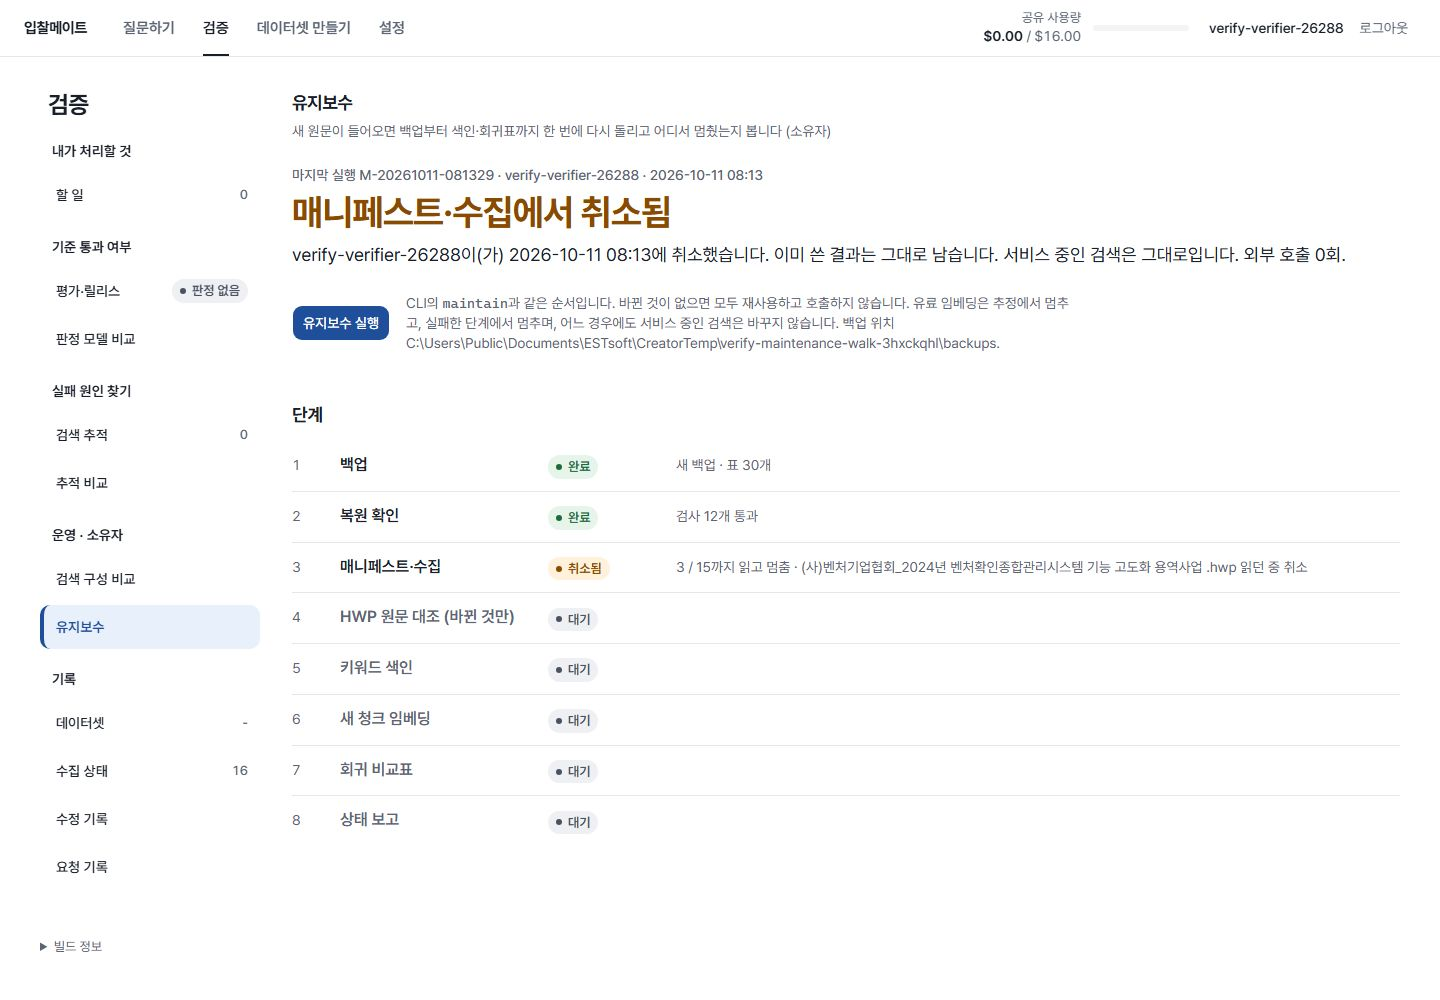
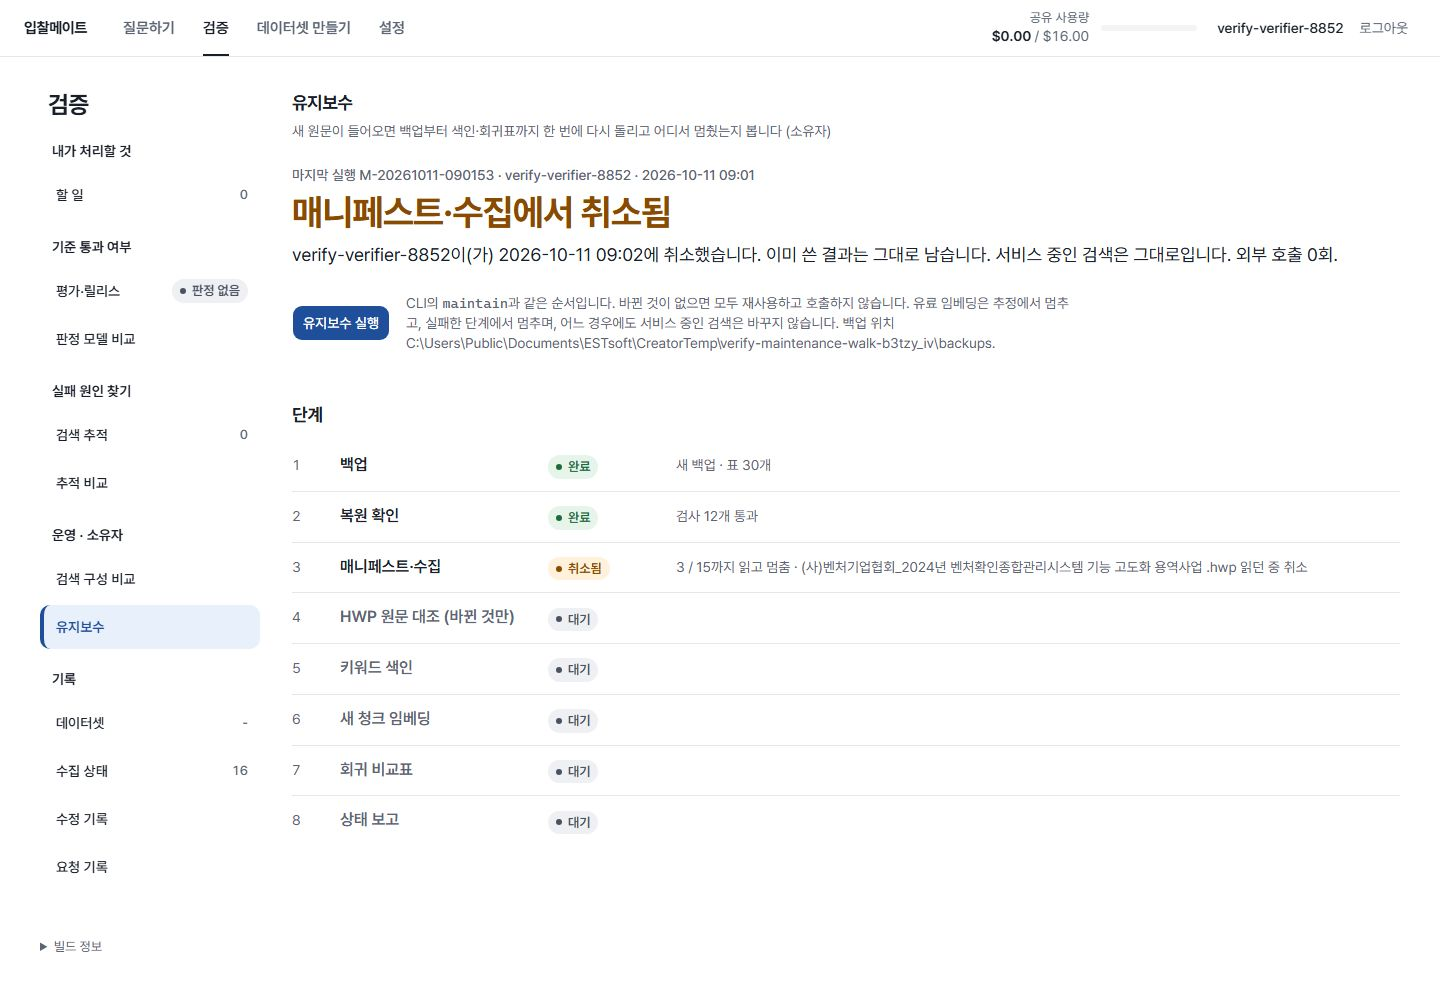
Maintenance walk: rerun at edbb38e with focused check receipts
Review round 1, F3: the browser walk and the maintenance, API, ingestion and
frontend checks are rerun at the fix commit on a clean tree, and the walk now
records its commit and that no converter outlived a timed-out parse.

diff --git a/docs/history/maintenance-timeout-cancel/README.md b/docs/history/maintenance-timeout-cancel/README.md
@@ -38,7 +38,8 @@ re-parses them with pyhwp. Identical output reuses the earlier extraction ids. T
 
 ## Browser walk
 
-2026-10-11, Chromium through Playwright at 1440×1000, the API and the built screens on one uvicorn worker. The
+2026-10-11, at commit `edbb38e` with a clean tree (the first line of [walk-log.json](walk-log.json)): Chromium
+through Playwright at 1440×1000, the API and the built screens on one uvicorn worker. The
 corpus was the fixture corpus, its keyword index activated, plus 12 real HWP originals added to the manifest:
 11 others and the 케빈랩 one, 15 unique originals in all. The local converter was used and the provider was fake.
 A copy of the full local corpus was not used, because its `pg_dump` alone ran past 10 minutes. Steps are in
@@ -46,9 +47,22 @@ A copy of the full local corpus was not used, because its `pg_dump` alone ran pa
 
 | Run | Observed |
 | --- | --- |
-| `parse_timeout_seconds: 1` | The 12 new HWPs each hit the limit; the fixture HWP read in time. The heading reads 끝났지만 검증되지 않음, followed by one Korean sentence ("시간 제한 안에 읽지 못한 원문 12개가 이전 추출로 남았습니다") and a notice listing the 12 filenames. Ingest reads "원문 16개 추출 모두 그대로 … · 1초 안에 못 읽은 12개는 이전 추출 유지". Fidelity, keyword, embedding, regression and report all ran. API status `unverified`, `timed_out` = the 12 names ([screen](timed-out-unverified.jpg)). |
-| Default limit, 취소 | Backup and restore check done, then "실행 중 0:06 경과 · 4 / 15 읽는 중 · (사)벤처기업협회_… .hwp · 이 파일 0:00". Four seconds later: "0:10 경과 … 이 파일 0:04" ([1](progress-1.jpg), [2](progress-2.jpg)). The page showed the cancelled state 2.4 s after 취소 was pressed: heading 매니페스트·수집에서 취소됨, then "verify-verifier-…이(가) 2026-10-11 08:13에 취소했습니다. 이미 쓴 결과는 그대로 남습니다." Ingest reads "3 / 15까지 읽고 멈춤 · … 읽던 중 취소", and later steps read 대기 ([screen](cancelled.jpg)). API status `cancelled`, `stopped_at` `ingest`, `cancelled_by` and `cancelled_at` set. The report `.md` was written, and 유지보수 실행 was enabled again. |
+| `parse_timeout_seconds: 1` | The 12 new HWPs each hit the limit; the fixture HWP read in time. The heading reads 끝났지만 검증되지 않음, followed by one Korean sentence ("시간 제한 안에 읽지 못한 원문 12개가 이전 추출로 남았습니다") and a notice listing the 12 filenames. Ingest reads "원문 16개 추출 모두 그대로 … · 1초 안에 못 읽은 12개는 이전 추출 유지". Fidelity, keyword, embedding, regression and report all ran. API status `unverified`, `timed_out` = the 12 names ([screen](timed-out-unverified.jpg)). Two seconds after the run ended, no `hwp5proc` started during the walk was still running: each killed parse took its converter with it. |
+| Default limit, 취소 | Backup and restore check done, then "실행 중 0:02 경과 · 3 / 15 읽는 중 · 기관E_재난 관리 시스템.hwp · 이 파일 0:00". Four seconds later: "0:06 경과 · 4 / 15 읽는 중 · (사)벤처기업협회_… .hwp · 이 파일 0:03" ([1](progress-1.jpg), [2](progress-2.jpg)). The page showed the cancelled state 2.4 s after 취소 was pressed: heading 매니페스트·수집에서 취소됨, then "verify-verifier-…이(가) 2026-10-11 09:02에 취소했습니다. 이미 쓴 결과는 그대로 남습니다." Ingest reads "3 / 15까지 읽고 멈춤 · … 읽던 중 취소", and later steps read 대기 ([screen](cancelled.jpg)). API status `cancelled`, `stopped_at` `ingest`, `cancelled_by` and `cancelled_at` set. The report `.md` was written, and 유지보수 실행 was enabled again. |
 | Cancel with no live run | `POST /api/verify/maintenance/cancel` answered 400 "실행 중인 유지보수가 없습니다." |
 
 The first walk also found a bug, fixed before the runs above: a new original that timed out was also listed as
 changed, because `before` is read before the manifest import.
+
+## Focused checks at the same commit
+
+`tools/verify.py stage-review` runs neither the maintenance tests nor the frontend checks, so they were run at
+`edbb38e` on their own; the output is in [receipts.txt](receipts.txt):
+`unittest tests.test_maintenance tests.test_api tests.test_ingestion` (71 tests, OK), and in `web/`
+`vitest run` (85 passed), `tsc --noEmit -p .` and `eslint src test` (both exit 0).
+
+Review round 1 added two regressions to `tests.test_maintenance`. A stub converter that records its PID and blocks
+outlived its killed parse on the earlier code; it no longer does. A cancel accepted while the report step was blocked
+left the run `complete` on the earlier code; it now ends `cancelled` at `report`. The Linux branch of the tree kill
+(own process group, `killpg`) was checked in a `python:3.12-slim` container, where the converter was gone after
+the timeout.
